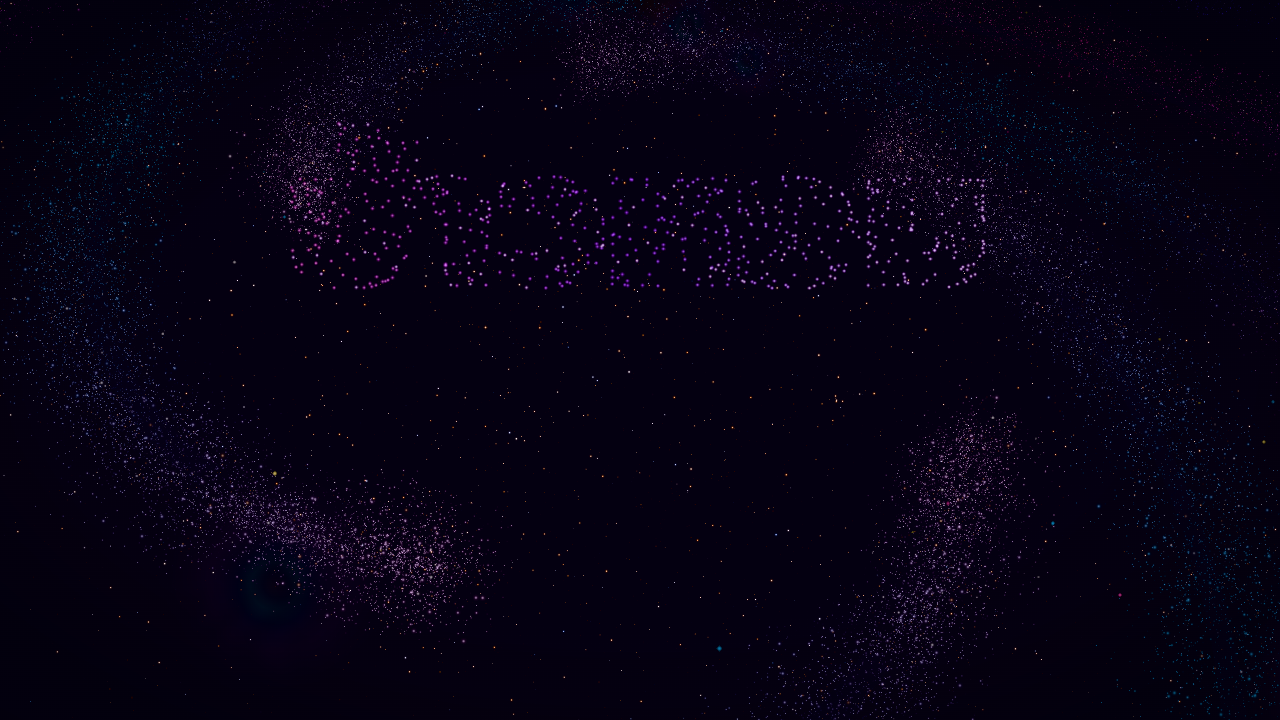
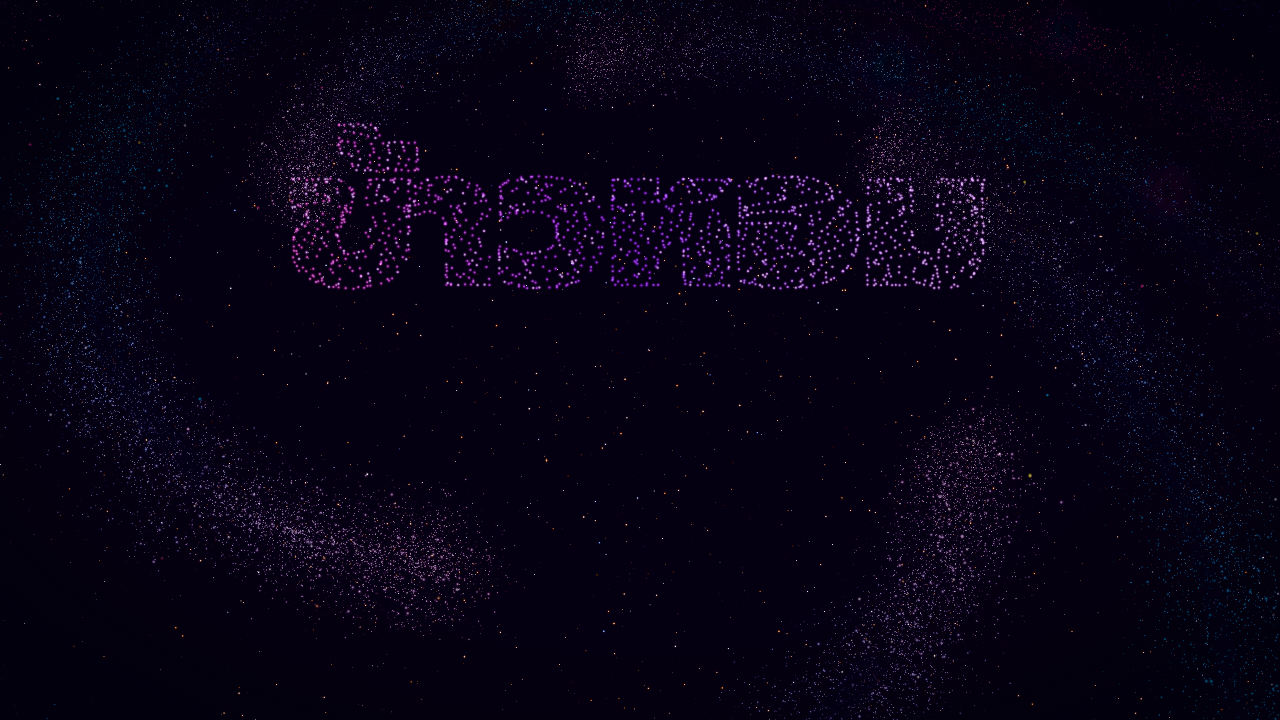
fix: improve reduced-motion reveal and mobile tour HUD

diff --git a/src/scene/solarSystemHeart.js b/src/scene/solarSystemHeart.js
@@ -1357,10 +1357,11 @@ export function createSolarSystemHeart(scene, quality = { tier: 'high' }, { effe
         }
       }
 
-      // Point counts: mobile ~1600, desktop ~2600, low tier ~900, reduced-motion ~600
+      // Keep the reduced-motion lettering dense enough to read while rendering no travel animation.
+      // The static reduced-motion pass is cheaper than animating the full desktop particle field.
       const isMobile = typeof window !== 'undefined' && window.innerWidth <= 520;
       const count = reducedMotion
-        ? 600
+        ? 1400
         : quality.tier === 'low'
           ? 900
           : isMobile
@@ -1432,7 +1433,7 @@ export function createSolarSystemHeart(scene, quality = { tier: 'high' }, { effe
         randoms[i] = Math.random();
       }
 
-      if (qaPreview) {
+      if (qaPreview || reducedMotion) {
         positions.set(letterTargets);
       }
 
@@ -1483,10 +1484,10 @@ export function createSolarSystemHeart(scene, quality = { tier: 'high' }, { effe
         letterTargets,
         randoms,
         updateBillboardScale,
-        elapsed: qaPreview ? 2.6 : 0,
-        travel: reducedMotion ? 0.15 : 1.4,
-        letterTravel: reducedMotion ? 0.08 : 0.8,
-        hold: qaPreview ? 30 : (reducedMotion ? 0.4 : 2.5),
+        elapsed: qaPreview ? 2.6 : (reducedMotion ? 0.02 : 0),
+        travel: reducedMotion ? 0.01 : 1.4,
+        letterTravel: reducedMotion ? 0.01 : 0.8,
+        hold: qaPreview ? 30 : (reducedMotion ? 1.5 : 2.5),
         burst: reducedMotion ? 0.08 : 0.6,
         fade: reducedMotion ? 0.12 : 0.35,
         onComplete: () => {
@@ -1542,7 +1543,7 @@ export function createSolarSystemHeart(scene, quality = { tier: 'high' }, { effe
         } else if (effect.elapsed < burstStart) {
           for (let i = 0; i < count; i += 1) {
             const i3 = i * 3;
-            const twinkle = Math.sin(realTime * 5.0 + effect.randoms[i] * 6.28) * 0.4;
+            const twinkle = reducedMotion ? 0 : Math.sin(realTime * 5.0 + effect.randoms[i] * 6.28) * 0.4;
             positions[i3] = effect.letterTargets[i3];
             positions[i3 + 1] = effect.letterTargets[i3 + 1];
             positions[i3 + 2] = effect.letterTargets[i3 + 2] + twinkle;

diff --git a/src/ui/guideDirector.js b/src/ui/guideDirector.js
@@ -195,6 +195,9 @@ export function createGuideDirector({
   // 3D planet tracking: Pointer or Edge Arrow
   function pointAtPlanet(planetId, labelText = '') {
     if (isGuideOff || !solarSystem?.planetsList) return;
+    // The HUD tour owns the coach layer while active; do not let a later
+    // EXPLORE callback put a planet arrow over its card.
+    if (tourInstance || document.body.classList.contains('guide-tour-active') || document.querySelector('.guide-tour-card')) return;
     clearAllGuides();
 
     const planet = solarSystem.planetsList.find((p) => p.id === planetId);
@@ -287,6 +290,15 @@ export function createGuideDirector({
       const tourSeen = sessionStorage.getItem('tourSeen');
       if (tourSeen === 'true') return;
     } catch {}
+
+    // The first-explore guide can leave its 3D planet pointer behind after
+    // its bubble closes. The HUD tour has its own spotlight, so remove stale
+    // pointers/bubbles before placing the tour card.
+    if (tourInstance) {
+      tourInstance.stop();
+      tourInstance = null;
+    }
+    clearAllGuides();
 
     tourInstance = startFirstRunTour({
       uiDirector,

diff --git a/src/ui/guideTour.js b/src/ui/guideTour.js
@@ -56,6 +56,11 @@ export function startFirstRunTour({
     return null;
   }
 
+  // The tour card and its target spotlight replace the separate planet
+  // pointer/edge arrow. Remove any pointer left by the first-explore prompt.
+  document.body.classList.add('guide-tour-active');
+  document.querySelectorAll('.guide-3d-pointer, .guide-edge-arrow').forEach((element) => element.remove());
+
   let currentIndex = 0;
   let spotlightEl = document.querySelector('.guide-spotlight');
   if (!spotlightEl) {
@@ -67,6 +72,7 @@ export function startFirstRunTour({
   let currentCardHandle = null;
 
   function finishTour() {
+    document.body.classList.remove('guide-tour-active');
     try {
       sessionStorage.setItem('tourSeen', 'true');
     } catch {}

diff --git a/src/style.css b/src/style.css
@@ -2231,6 +2231,8 @@ body.cinema-recording .planet-tooltip { visibility: hidden !important; }
   font-family: 'Prompt', sans-serif;
   pointer-events: auto;
 }
+body.guide-tour-active .guide-3d-pointer,
+body.guide-tour-active .guide-edge-arrow { display: none !important; }
 .guide-tour-step-badge {
   font-size: 0.74rem;
   font-weight: 700;

diff --git a/ANTIGRAVITY_HANDOFF.md b/ANTIGRAVITY_HANDOFF.md
@@ -504,3 +504,10 @@ npm run visual:qa -- --phase=handoff
 - **Production URL**: https://birthday-pi-wheat.vercel.app
 - **Production Asset Bundle**: `dist/assets/index-C6pUcSFJ.js` และ `dist/assets/index-CDWl2Kn4.css`
 - **Build Status**: `npm run build` ผ่านสมบูรณ์ (Zero errors, built in ~800ms)
+
+### 4. แก้ไขเพิ่มเติมหลังตรวจบัค
+
+- โหมด `prefers-reduced-motion` เพิ่มความหนาแน่นของอนุภาคที่ประกอบเป็น “ข้าวหอม” และค้างข้อความให้อ่านได้ แทนการเห็นเป็นเส้นบางๆ
+- ระหว่างทัวร์แนะนำบนมือถือ ล้างลูกศรชี้ดาวที่ค้างจากหน้าก่อน และซ่อนตัวชี้ทุกชนิดจนกว่าทัวร์จะจบ เพื่อไม่ให้ทับการ์ดคำแนะนำ
+- เพิ่ม assertion ใน `scripts/visual-qa.mjs` สำหรับจำนวนอนุภาคและตัวชี้ที่ต้องไม่แสดงระหว่างทัวร์
+- ตรวจ `npm run build` และ Visual QA 14 กรณีซ้ำแล้วผ่าน; ภาพอ้างอิงล่าสุดอยู่ใน `qa/round8-star-gate/reduced-motion-reveal.png` และ `qa/round8-star-gate/sharpness-focus-mobile.png`
